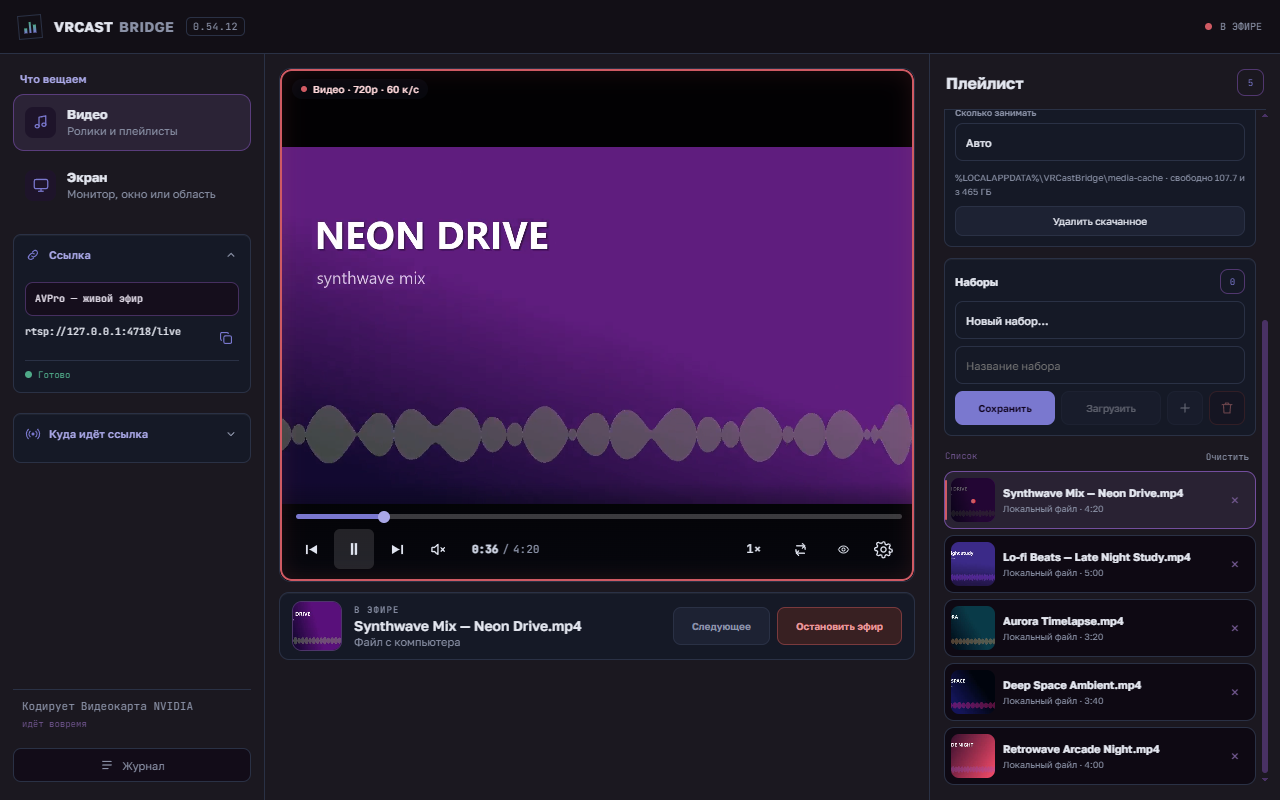
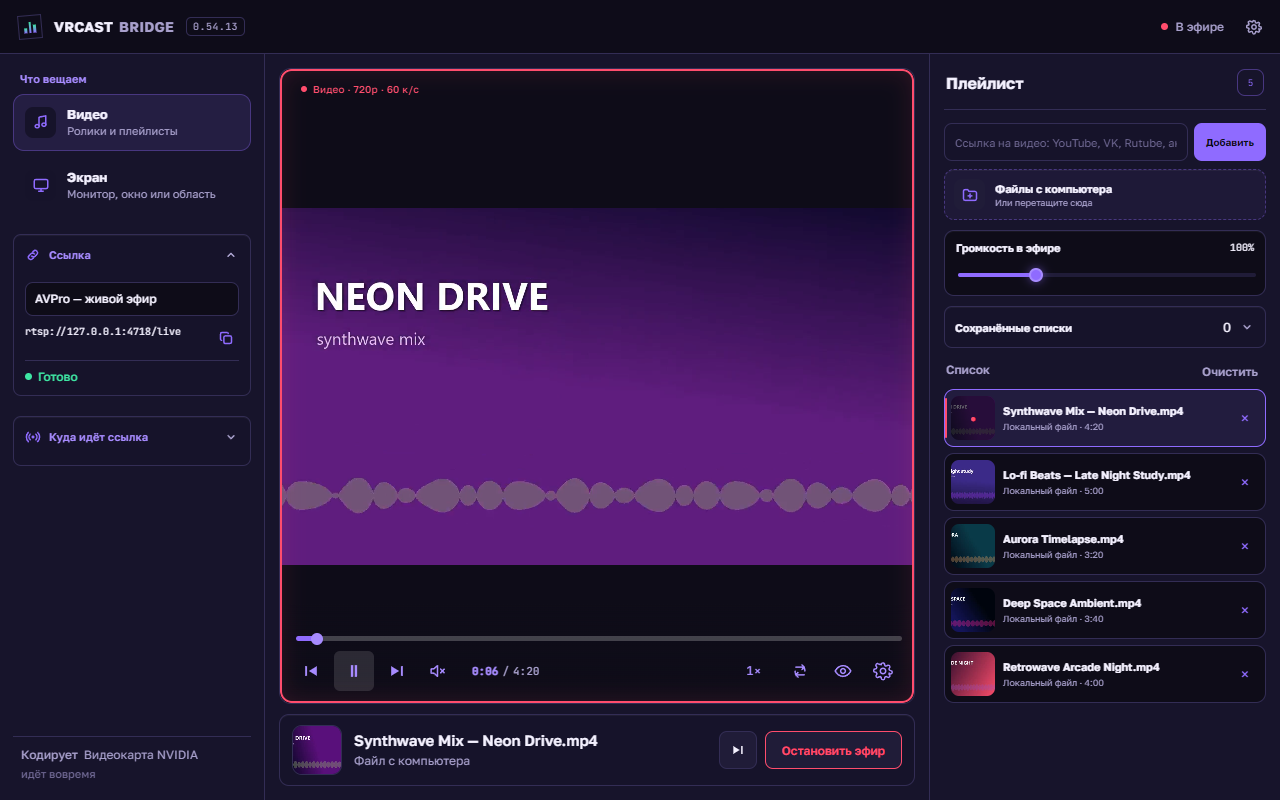
Новый вид в README, закрытие всех окон с анимацией, окно захвата не сбрасывается, 0.54.14
- Скриншоты и гифка сняты в палитре «Ночной мир», в гифке — окно настроек и смена темы
- README: настройки, три темы, работа из трея
- Все диалоги закрываются с той же анимацией, что и настройки
- refreshWindows читает выбранное окно после ответа — при загрузке сохранённое окно больше не затирается
- Заставка и страница ошибки лаунчера в цветах новой палитры

diff --git a/public/app.js b/public/app.js
@@ -773,7 +773,12 @@ async function loadCaptureSources() {
 }
 
 async function refreshWindows() {
-  const selected=$('#windowSource').value, windows=await api('/api/windows');
+  const windows=await api('/api/windows');
+  // Выбор читаем ПОСЛЕ ответа, а не до: запрос идёт через PowerShell 1–2 с, и
+  // за это время загрузка источников успевала выставить сохранённое окно. Старое
+  // (пустое) значение его затирало — при режиме «звук окна» выбранное окно
+  // терялось на каждом запуске, и «Вещать экран» падало с «Выберите окно».
+  const selected=$('#windowSource').value||(!ui.sourcesLoaded?ui.status?.config?.captureWindowHandle||'':'');
   ui.sources.windows=windows;
   fillWindowPicker(windows,selected);
 }
@@ -1355,6 +1360,25 @@ function закрытьНастройки(сразу=false){
 $('#openSettings').addEventListener('click',открытьНастройки);
 $('#closeSettings').addEventListener('click',()=>закрытьНастройки());
 settingsDialog.addEventListener('cancel',event=>{ event.preventDefault(); закрытьНастройки(); });
+// Остальные окна (журнал, сервер, обновление) закрываются так же плавно, как
+// настройки: их close() и Escape сначала проигрывают затухание. Раньше они
+// исчезали мгновенно, и окна программы вели себя по-разному.
+for(const окно of document.querySelectorAll('dialog')){
+  if(окно===settingsDialog)continue;
+  const закрыть=окно.close.bind(окно), показать=окно.showModal.bind(окно);
+  окно.close=()=>{
+    if(!окно.open||окно.classList.contains('closing'))return;
+    if(меньшеДвижения.matches){ закрыть(); return; }
+    окно.classList.add('closing');
+    let таймер=0;
+    const готово=()=>{ clearTimeout(таймер); окно.removeEventListener('animationend',готово); if(!окно.classList.contains('closing'))return; окно.classList.remove('closing'); if(окно.open)закрыть(); };
+    таймер=setTimeout(готово,220);
+    окно.addEventListener('animationend',готово);
+  };
+  // Открыли снова, пока идёт затухание, — довести закрытие мгновенно, иначе showModal упадёт.
+  окно.showModal=()=>{ if(окно.classList.contains('closing')){ окно.classList.remove('closing'); закрыть(); } показать(); };
+  окно.addEventListener('cancel',event=>{ event.preventDefault(); окно.close(); });
+}
 let настройкиНажалиНаФон=false;
 settingsDialog.addEventListener('mousedown',event=>{ настройкиНажалиНаФон=(event.target===settingsDialog); });
 settingsDialog.addEventListener('click',event=>{ if(event.target===settingsDialog&&настройкиНажалиНаФон)закрытьНастройки(); });

diff --git a/src/server.js b/src/server.js
@@ -8,7 +8,7 @@ import crypto from 'node:crypto';
 import { connect as netConnect } from 'node:net';
 import { access, readFile, stat, statfs } from 'node:fs/promises';
 
-const APP_VERSION = '0.54.13';
+const APP_VERSION = '0.54.14';
 
 // Свободное место проверяем редко и в фоне: на полном диске ffmpeg не может
 // дописывать сегменты, эфир встаёт рывками, а причина ниоткуда не видна.

diff --git a/launcher/Program.cs b/launcher/Program.cs
@@ -771,8 +771,8 @@ internal sealed class SetupWindow : Form
         MaximizeBox = false;
         StartPosition = FormStartPosition.CenterScreen;
         ClientSize = new Size(520, 270);
-        BackColor = Color.FromArgb(13, 16, 23);
-        ForeColor = Color.FromArgb(227, 230, 239);
+        BackColor = Color.FromArgb(14, 12, 24);
+        ForeColor = Color.FromArgb(244, 241, 255);
         Font = new Font("Segoe UI", 9F);
         Icon = MainWindow.LoadAppIcon();
 
@@ -913,7 +913,7 @@ internal sealed class MainWindow : Form
         MinimumSize = new Size(980, 640);
         StartPosition = FormStartPosition.CenterScreen;
 
-        BackColor = Color.FromArgb(10, 12, 11);
+        BackColor = Color.FromArgb(14, 12, 24);
         AllowDrop = true;
         _webView.AllowExternalDrop = false;
         Controls.Add(_webView);
@@ -1190,10 +1190,10 @@ internal sealed class MainWindow : Form
         {
             _webView.CoreWebView2?.NavigateToString(
                 "<!doctype html><meta charset=\"utf-8\">" +
-                "<style>html,body{height:100%;margin:0;background:#0d1017;color:#e3e6ef;" +
+                "<style>html,body{height:100%;margin:0;background:#0e0c18;color:#f4f1ff;" +
                 "font:14px 'Segoe UI',system-ui,sans-serif;display:grid;place-items:center}" +
                 "div{max-width:560px;display:grid;gap:12px}pre{max-height:220px;overflow:auto;padding:10px;" +
-                "background:#151926;border:1px solid #2a3145;border-radius:8px;color:#8a91a6;font-size:12px;white-space:pre-wrap}" +
+                "background:#16132a;border:1px solid #332d55;border-radius:8px;color:#a8a0cc;font-size:12px;white-space:pre-wrap}" +
                 "b{font-size:16px}</style><div><b>Сервер не запустился</b>" +
                 "<span>Проверьте интернет: при первом запуске догружаются компоненты. Ниже — что записал журнал.</span>" +
                 "<pre>" + текст + "</pre></div>");
@@ -1207,11 +1207,11 @@ internal sealed class MainWindow : Form
         {
             _webView.CoreWebView2?.NavigateToString(
                 "<!doctype html><meta charset=\"utf-8\">" +
-                "<style>html,body{height:100%;margin:0;display:grid;place-items:center;background:#0d1017;" +
-                "color:#8a91a6;font:14px 'Segoe UI',system-ui,sans-serif}" +
+                "<style>html,body{height:100%;margin:0;display:grid;place-items:center;background:#0e0c18;" +
+                "color:#a8a0cc;font:14px 'Segoe UI',system-ui,sans-serif}" +
                 "div{display:grid;gap:10px;justify-items:center}" +
-                "b{color:#e3e6ef;font-size:15px;font-weight:600}" +
-                "i{width:26px;height:26px;border:2px solid #2a3145;border-top-color:#7a78cf;border-radius:50%;" +
+                "b{color:#f4f1ff;font-size:15px;font-weight:600}" +
+                "i{width:26px;height:26px;border:2px solid #332d55;border-top-color:#8f6bff;border-radius:50%;" +
                 "animation:spin 1s linear infinite}" +
                 "@keyframes spin{to{transform:rotate(360deg)}}</style>" +
                 "<div><i></i><b>VRCast Bridge готовится к работе</b>" +
@@ -1404,8 +1404,8 @@ internal sealed class RegionSelector : Form
     {
         base.OnPaint(args);
         if (_selection.IsEmpty) return;
-        using var fill = new SolidBrush(Color.FromArgb(90, 169, 112, 255));
-        using var pen = new Pen(Color.FromArgb(169, 112, 255), 4);
+        using var fill = new SolidBrush(Color.FromArgb(90, 143, 107, 255));
+        using var pen = new Pen(Color.FromArgb(143, 107, 255), 4);
         args.Graphics.FillRectangle(fill, _selection);
         args.Graphics.DrawRectangle(pen, _selection);
     }
@@ -1463,7 +1463,7 @@ internal sealed class CaptureOutline : Form
         // содержимое у окон во весь экран. Тёмная подложка под ней даёт
         // контраст и на светлом кадре, и на тёмном.
         using var shadow = new Pen(Color.FromArgb(200, 10, 12, 20), 3);
-        using var edge = new Pen(Color.FromArgb(240, 138, 136, 224), 2);
+        using var edge = new Pen(Color.FromArgb(240, 167, 139, 255), 2);
         var outer = new Rectangle(1, 1, Math.Max(1, ClientSize.Width - 3), Math.Max(1, ClientSize.Height - 3));
         args.Graphics.DrawRectangle(shadow, outer);
         args.Graphics.DrawRectangle(edge, outer);

diff --git a/README.md b/README.md
@@ -10,7 +10,7 @@
 [![Лицензия MIT](https://img.shields.io/badge/лицензия-MIT-6366f1?style=flat-square)](LICENSE)
 ![Windows 10 и 11](https://img.shields.io/badge/Windows-10%20и%2011-0ea5e9?style=flat-square)
 
-<img src="docs/media/demo.gif" width="820" alt="Работа программы: следующий трек, скорость, повтор, пауза, меню качества и переключение эфира с плейлиста на захват окна">
+<img src="docs/media/demo.gif" width="820" alt="Работа программы: следующий трек, скорость, повтор, пауза, меню качества, переключение эфира на захват окна и смена темы в настройках">
 
 </div>
 
@@ -33,6 +33,10 @@
 **Для друзей.** Бесплатный туннель без регистрации. Если есть VPS с белым IP, программа развернёт на нём медиасервер сама — по SSH, за минуту.
 
 **Не мешает игре.** На простое программа почти не нагружает процессор. Процессы эфира идут с повышенным приоритетом, поэтому игра и браузер их не вытесняют, а фоновые загрузки — с пониженным. Если машина не тянет выбранное качество, программа сама снижает нагрузку и следит, чтобы задержка не росла.
+
+**Настройки в одном окне.** Шестерёнка сверху: три темы оформления («Ночной мир», «Эфирная», «Проектор»), кодировщик, способ быстрой ссылки, папка и объём скачанных видео.
+
+**Работает из трея.** Крестик прячет окно, эфир продолжается; значок в трее открывает программу или останавливает эфир. Можно переключить, чтобы крестик закрывал программу.
 
 **Автообновление.** Программа сама находит новую версию и ставит её по кнопке «Обновить».
 
@@ -89,7 +93,7 @@ dotnet publish launcher/VRCastBridge.Launcher.csproj -c Release -o launcher/bin/
 powershell -ExecutionPolicy Bypass -File tools/sign.ps1
 ```
 
-`npm test` — 32 интеграционные проверки: поднимают настоящий сервер и гоняют через него реальный поток — задержку, стабильность при снижении битрейта, переключение источников, восстановление после сбоев.
+`npm test` — 33 интеграционные проверки: поднимают настоящий сервер и гоняют через него реальный поток — задержку, стабильность при снижении битрейта, переключение источников, восстановление после сбоев.
 
 ## Лицензия
 
